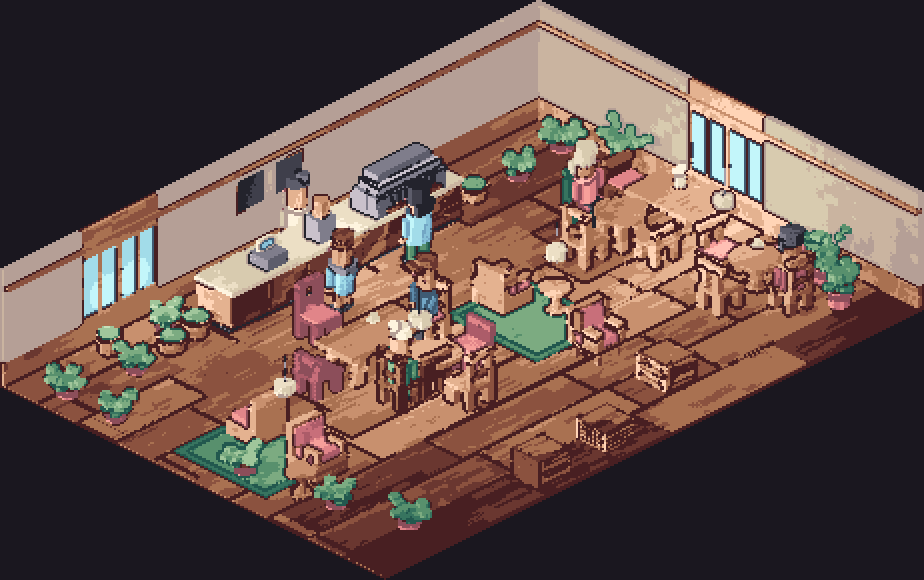
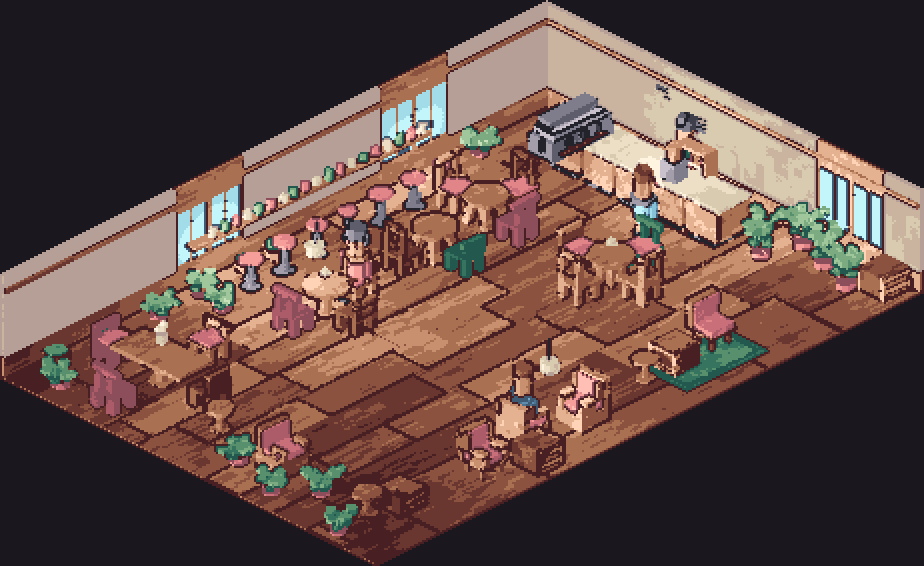
A third topology, and the consumer that assumed the first two
The peninsula juts into the room from a far wall instead of running
along it. It is the one counter arrangement here that changes the
circulation problem rather than the furniture arrangement: the floor is
cut in two and everything has to come round the end. That is a question
the flood fill was already equipped to ask.

The generator side took one fix -- a duplicated `zones += [run, back,
queue]` that made every peninsula fail its own "a cafe has one service
run" rule, 0% acceptance. Removing it gave 83-100%, and peninsulas are
now 9 of 40 plans. All 60 seeds pass, 8 ms each.

The consumer side was the interesting half. `build_plan` had the back
bar hugging a wall at a hardcoded x=0.15, so on a peninsula the shelving
landed four tiles from the counter it belongs to -- and nothing
complained, because `add_seeded` found the spot empty and took it. A
fallback that succeeds is the hardest kind of bug to see.

Deriving the shelving from the back-bar zone then exposed two more:

  - Subtracting the whole counter kit's length left `span - 5.7` on a
    six-tile run, so the rooms shipped with no back bar at all. Only the
    machine occludes anything; the grinder and register top out at 1.3
    against a 1.9 shelf.

  - The kit was placed AFTER the shelves. `add_seeded` rejects a seed
    whose result is hidden, but it can only see what is already in the
    layout, so every shelf was checked against an empty counter and
[…]

diff --git a/tools/build_plan.py b/tools/build_plan.py
@@ -43,6 +43,9 @@ SILL, HEAD = 0.58, 1.82
 # the one thing in the room that is supposed to lead the eye.
 PAINTS = ("wood", "foliage-3", "rose-3", "wood", "wood-2", "wood")
 
+# How much of the run the espresso machine takes, including its lead-in gap.
+MACHINE_SPAN = 2.9
+
 
 def light_rig(plan: F.Plan) -> LightRig:
     """Daylight at each window, a core over the till, and dark corners.
@@ -103,6 +106,15 @@ def build(plan: F.Plan) -> Layout:
 
     run = plan.of("service")[0]
     horizontal = run.facing == 0.0
+    # A peninsula juts into the room, so its back bar does not hug the wall
+    # that its run is parallel to. Everything below that used to say "the wall"
+    # has to say "the back bar zone" instead: shelving was going to x=0.15
+    # whatever the plan said, four tiles from the counter it belongs to, and
+    # the only reason nothing complained is that `add_seeded` found the spot
+    # empty and took it. A fallback that succeeds is the hardest kind of bug to
+    # see.
+    back0 = plan.of("backbar")[0]
+    on_wall = (back0.y0 < 0.05) if horizontal else (back0.x0 < 0.05)
     length = run.w if horizontal else run.d
     # What stands on the counter, and how much of the run it eats. Tallied
     # before the back bar goes in rather than after, because the back bar has
@@ -110,7 +122,6 @@ def build(plan: F.Plan) -> Layout:
     # behind the grinder 37%.
     kit = [(A.espresso_machine, 2.0, "espresso"), (A.grinder, 0.8, "grinder"),
            (A.register, 0.9, "register")]
-    kit = [k for k in kit if True]
     kit_extent, used = 0.35, 0.35
     for _, width, _ in kit:
         if kit_extent + width > length - 0.3:
@@ -128,22 +139,75 @@ def build(plan: F.Plan) -> Layout:
             m = A.counter(seed=4 + i, front="x")
         add(m, at=at, name=f"counter#{i}")
 
+    # Placed BEFORE the back bar, not after. The shelves go in with
+    # `add_seeded`, which rejects a seed whose result is hidden -- but it can
+    # only see what is already in the layout, and the kit used to arrive
+    # afterwards. So every shelf was checked against an empty counter and
+    # passed, and three rooms in eight shipped a shelf 45% behind a grinder.
+    # Ordering is part of a constraint solver's correctness: a check that runs
+    # before the thing it constrains is a check that always passes.
+    # --- the kit itself, spaced along the run rather than at coordinates
+    top = run.y0 + 0.10 if horizontal else run.x0 + 0.10
+    for factory, width, tag in kit:
+        if used + width > length - 0.3:
+            break
+        pos = (run.x0 + used, top + 0.05, 0.92) if horizontal else (
+            top + 0.05, run.y0 + used, 0.92)
+        try:
+            L.add_seeded(lambda k, f=factory: f(seed=k), range(1, 10),
+                         at=pos, name=f"prop#{tag}")
+        except TypeError:
+            add(factory(), at=pos, name=f"prop#{tag}")
+        used += width + 0.55
+
     # --- back bar: shelving against the wall behind the run
     back = plan.of("backbar")
     if back:
         b = back[0]
-        span = b.w if horizontal else b.d
+        # Shelving runs along the back bar's own long axis and sits inside it,
+        # rather than against whichever wall the reference room happened to
+        # use. `A.bookshelf` is 0.9 wide and 0.3 deep, so it fits the 0.8 strip.
+        along_x = b.w >= b.d
+        span = b.w if along_x else b.d
         # Started from the FAR end of the run. Shelving from the near end sat
         # directly behind the espresso machine and `screen_occlusion` reported
         # 97% of it hidden -- geometry nobody can see, which is the most
         # expensive kind. The machine takes the first two tiles of any run, so
         # the back bar takes the rest.
-        for i in range(max(0, int((span - kit_extent - 0.6) / 1.6))):
-            off = span - 1.7 - i * 1.6
-            at = (b.x0 + off, 0.15, 0) if horizontal else (0.15, b.y0 + off, 0)
-            L.add_seeded(lambda k: A.bookshelf(seed=k), range(3 + i, 14 + i),
-                         at=at, rot=0 if horizontal else 270,
-                         name=f"prop#backbar{i}")
+        # Only the MACHINE is subtracted, not the whole kit. Subtracting all
+        # three left `span - 5.7` on a six-tile run and the rooms shipped with
+        # no back bar at all -- invisible, because an empty wall behind a
+        # counter looks like a decision. The grinder and the register top out
+        # at 1.3 against a 1.9 shelf; the machine reaches 1.74 and is the only
+        # one that hides anything.
+        # The offset is searched, not computed. `add_seeded` cannot rescue
+        # this placement -- every `A.bookshelf` seed has the same 0.9 x 0.3
+        # footprint, so no seed moves the shelf out from behind the grinder,
+        # and the fallback quietly shipped one 45% hidden in three rooms of
+        # eight. When the solver's only lever does not move the failing
+        # quantity, give it the lever that does: here that is where along the
+        # run the shelf goes, so the loop proposes offsets and keeps the ones
+        # the occlusion rule accepts.
+        want = max(0, int((span - MACHINE_SPAN - 0.6) / 1.6))
+        taken, placed_i = [], 0
+        off = span - 1.7
+        while off > 0.3 and placed_i < want:
+            if any(abs(off - t) < 1.5 for t in taken):
+                off -= 0.35
+                continue
+            at = ((b.x0 + off, b.y0 + 0.08, 0) if along_x
+                  else (b.x0 + 0.08, b.y0 + off, 0))
+            name = f"prop#backbar{placed_i}"
+            L.add(A.bookshelf(seed=3 + placed_i), at=at,
+                  rot=0 if along_x else 270, name=name)
+            cand = L.items.pop()
+            if L._conflicts(cand, 45.0, 0.35):
+                L.rots.pop(name, None)
+            else:
+                L.items.append(cand)
+                taken.append(off)
+                placed_i += 1
+            off -= 0.35
 
     # --- menu boards above the counter, on solid wall and never over glass.
     # The reference room learned both halves of that the hard way: at counter
@@ -160,24 +224,14 @@ def build(plan: F.Plan) -> Layout:
     hi = run.x1 if horizontal else run.y1
     glass = plan.win_x if horizontal else plan.win_y
     solid = [t for t in range(int(lo), int(hi) + 1) if t not in glass]
-    for bi, t in enumerate(solid[:2]):
+    # Only when the run is parallel to the wall it backs onto. A peninsula
+    # meets the wall end-on, so there is no stretch of wall behind it to hang a
+    # board on -- and hanging one anyway put two chalkboards across the room
+    # from the counter they price.
+    for bi, t in enumerate(solid[:2] if on_wall else []):
         at = (t + 0.12, 0.04, 0.62) if horizontal else (0.04, t + 0.12, 0.62)
         add(A.menu_board(), at=at, rot=0 if horizontal else 270,
             name=f"decor#menu{bi}")
-
-    # --- the kit itself, spaced along the run rather than at coordinates
-    top = run.y0 + 0.10 if horizontal else run.x0 + 0.10
-    for factory, width, tag in kit:
-        if used + width > length - 0.3:
-            break
-        pos = (run.x0 + used, top + 0.05, 0.92) if horizontal else (
-            top + 0.05, run.y0 + used, 0.92)
-        try:
-            L.add_seeded(lambda k, f=factory: f(seed=k), range(1, 10),
-                         at=pos, name=f"prop#{tag}")
-        except TypeError:
-            add(factory(), at=pos, name=f"prop#{tag}")
-        used += width + 0.55
 
     # --- window bar: a run of stools facing the glass
     for bi, z in enumerate(plan.of("window_bar")):

diff --git a/tools/floorplan.py b/tools/floorplan.py
@@ -338,10 +338,47 @@ def generate(seed: int = 1, tries: int = 120) -> Plan:
         w = 12 + int(rnd() * 5)
         d = 9 + int(rnd() * 4)
         run_len = 4.0 + rnd() * 3.0
+        # A peninsula juts into the room from the far wall instead of running
+        # along it. It is the one counter arrangement here that changes the
+        # circulation problem rather than the furniture arrangement: the floor
+        # is cut in two and everything has to come round the end, which is a
+        # question the flood fill is already equipped to ask and the rectangle
+        # comparisons are not.
+        peninsula = rnd() < 0.26
         horizontal = rnd() < 0.62
         zones = []
 
-        if horizontal:
+        if peninsula:
+            run_len = min(run_len, (d if horizontal else w) - 3.2)
+            if run_len < 3.0:
+                continue
+            if horizontal:
+                rx = 2.2 + rnd() * max(0.1, w - run_len - 6.0)
+                run = Zone("service", rx, 0.8, rx + SERVICE_DEPTH,
+                           0.8 + run_len, 90.0)
+                back = Zone("backbar", rx - BACKBAR_DEPTH, 0.0,
+                            rx, 0.8 + run_len + 0.3, 90.0)
+                queue = Zone("queue", run.x1, 0.5, run.x1 + QUEUE_DEPTH,
+                             run.y1 + 0.4, 90.0)
+                blocked_x = (back.x0 - 0.2, queue.x1 + 0.2)
+                blocked_y = None
+                main = (queue.x1 + 0.5, 0.5, w - 0.5, d - 0.5)
+                side = (0.5, 0.5, back.x0 - 0.5, d - 0.5)
+                door = (w - 0.4, d - 0.4)
+            else:
+                ry = 2.2 + rnd() * max(0.1, d - run_len - 6.0)
+                run = Zone("service", 0.8, ry, 0.8 + run_len,
+                           ry + SERVICE_DEPTH, 0.0)
+                back = Zone("backbar", 0.0, ry - BACKBAR_DEPTH,
+                            0.8 + run_len + 0.3, ry, 0.0)
+                queue = Zone("queue", 0.5, run.y1, run.x1 + 0.4,
+                             run.y1 + QUEUE_DEPTH, 0.0)
+                blocked_x = None
+                blocked_y = (back.y0 - 0.2, queue.y1 + 0.2)
+                main = (0.5, queue.y1 + 0.5, w - 0.5, d - 0.5)
+                side = (0.5, 0.5, w - 0.5, back.y0 - 0.5)
+                door = (w - 0.4, d - 0.4)
+        elif horizontal:
             x0 = 0.8 + rnd() * max(0.1, w - run_len - 1.6)
             run = Zone("service", x0, BACKBAR_DEPTH, x0 + run_len,
                        BACKBAR_DEPTH + SERVICE_DEPTH, 0.0)
@@ -353,7 +390,7 @@ def generate(seed: int = 1, tries: int = 120) -> Plan:
         else:
             y0 = 0.8 + rnd() * max(0.1, d - run_len - 1.6)
             run = Zone("service", BACKBAR_DEPTH, y0,
-                       BACKBAR_DEPTH + SERVICE_DEPTH, y0 + run_len, 90.0)
+                       BACKBAR_DEPTH + SERVICE_DEPTH, y0 + run_len, 90.0)  # noqa
             back = Zone("backbar", 0.0, y0 - 0.3, BACKBAR_DEPTH,
                         y0 + run_len + 0.3, 90.0)
             queue = Zone("queue", run.x1, y0 - 0.4, run.x1 + QUEUE_DEPTH,
@@ -376,6 +413,8 @@ def generate(seed: int = 1, tries: int = 120) -> Plan:
 
         # The floor the service band leaves, as TWO rectangles: the one below
         # the band, and the strip beside it that still reaches the wall.
+        # A peninsula has already worked its own two out -- they are the floor
+        # either side of it rather than below and beside.
         #
         # The second one is not a refinement, it is the difference between a
         # rule and a ban. With only the strip below, a horizontal counter puts
@@ -386,7 +425,9 @@ def generate(seed: int = 1, tries: int = 120) -> Plan:
         # and the layout was wrong: a five-tile counter on a fourteen-tile wall
         # leaves nine tiles of window, and that is exactly where a cafe puts
         # its seats.
-        if horizontal:
+        if peninsula:
+            pass
+        elif horizontal:
             main = (0.5, queue.y1 + 0.4, w - 0.5, d - 0.5)
             side = (back.x1 + 0.6, 0.5, w - 0.5, queue.y1 - 0.1)
             door = (min(w - 0.5, back.x1 + 1.8), d - 0.4)

diff --git a/tools/preview_plans.py b/tools/preview_plans.py
@@ -13,7 +13,7 @@ the door. That last layer is the point of the sheet. Every other rule in
 the numbers; circulation is emergent, and the only honest way to review it is
 to look at the floor that is left.
 
-    python tools/preview_plans.py [--plans 6] [--seed 1]
+    python tools/preview_plans.py [--plans 9] [--seed 1]
 """
 from __future__ import annotations
 
@@ -91,7 +91,7 @@ def draw_plan(d: ImageDraw.ImageDraw, plan: F.Plan, ox: int, oy: int,
 
 def main() -> int:
     ap = argparse.ArgumentParser()
-    ap.add_argument("--plans", type=int, default=6)
+    ap.add_argument("--plans", type=int, default=9)
     ap.add_argument("--seed", type=int, default=1)
     ap.add_argument("--px", type=float, default=26.0)
     ap.add_argument("--cols", type=int, default=3)
